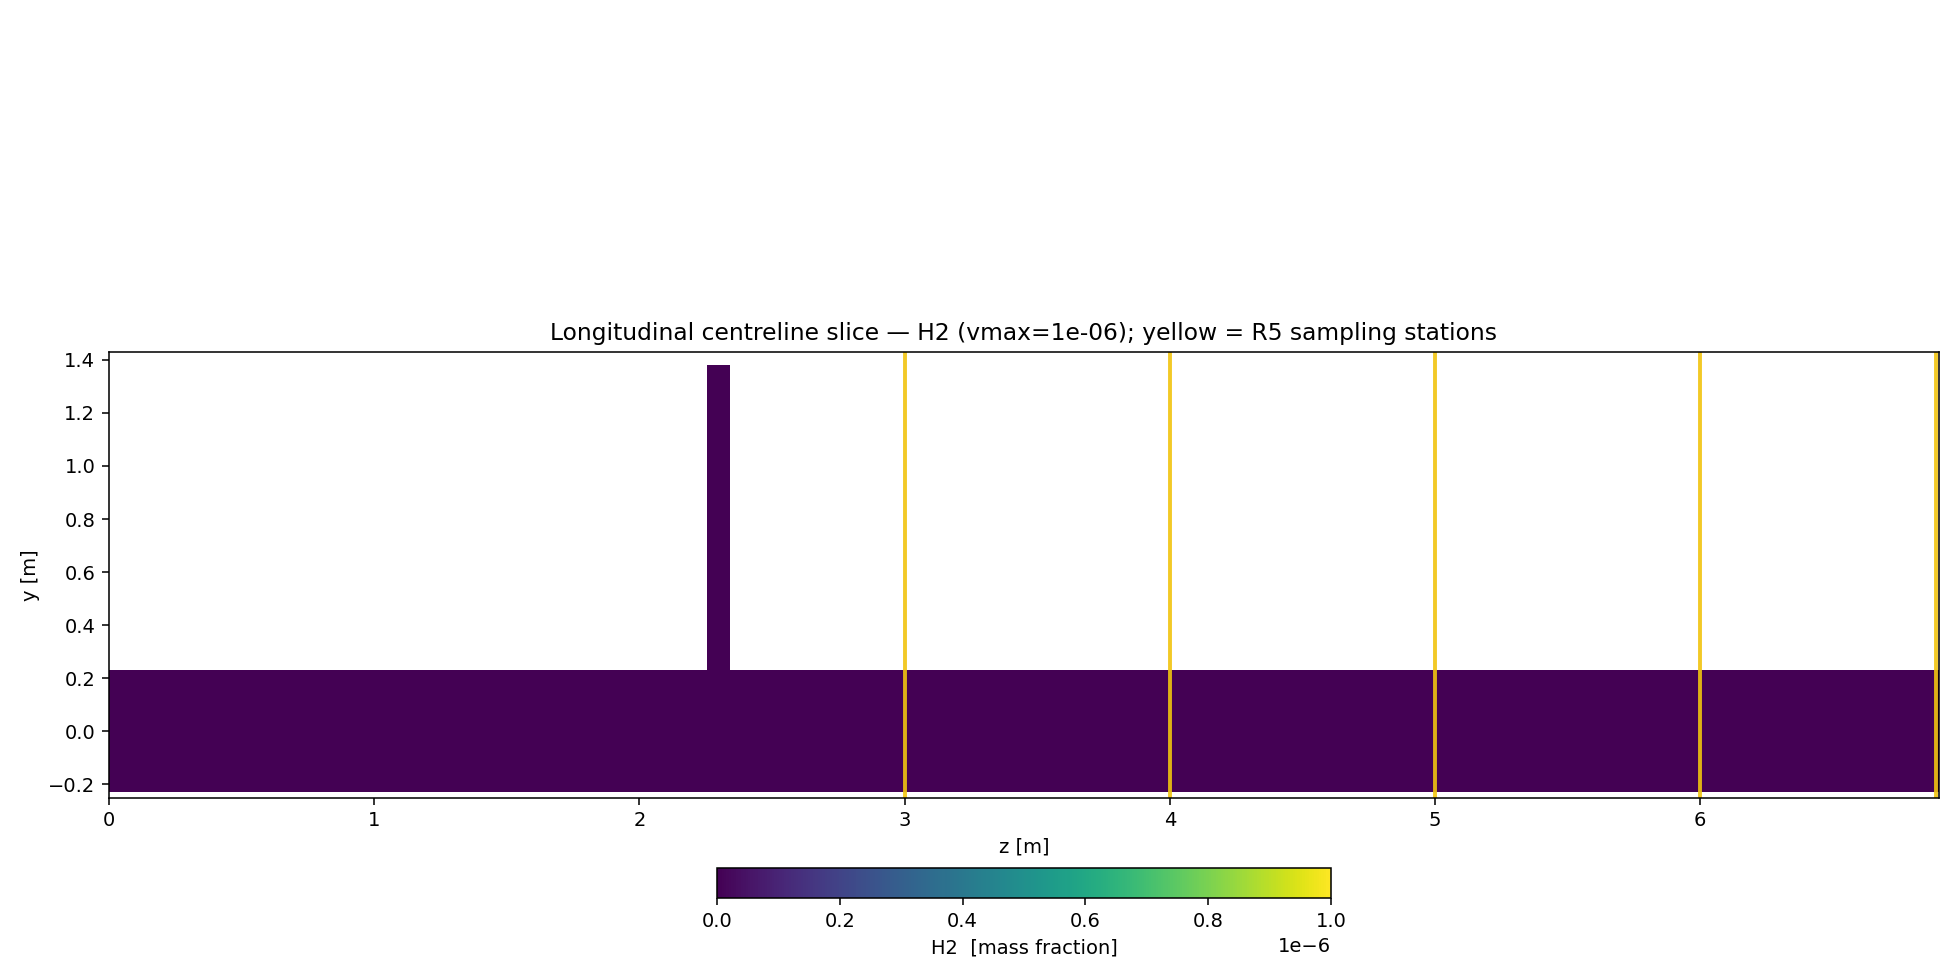
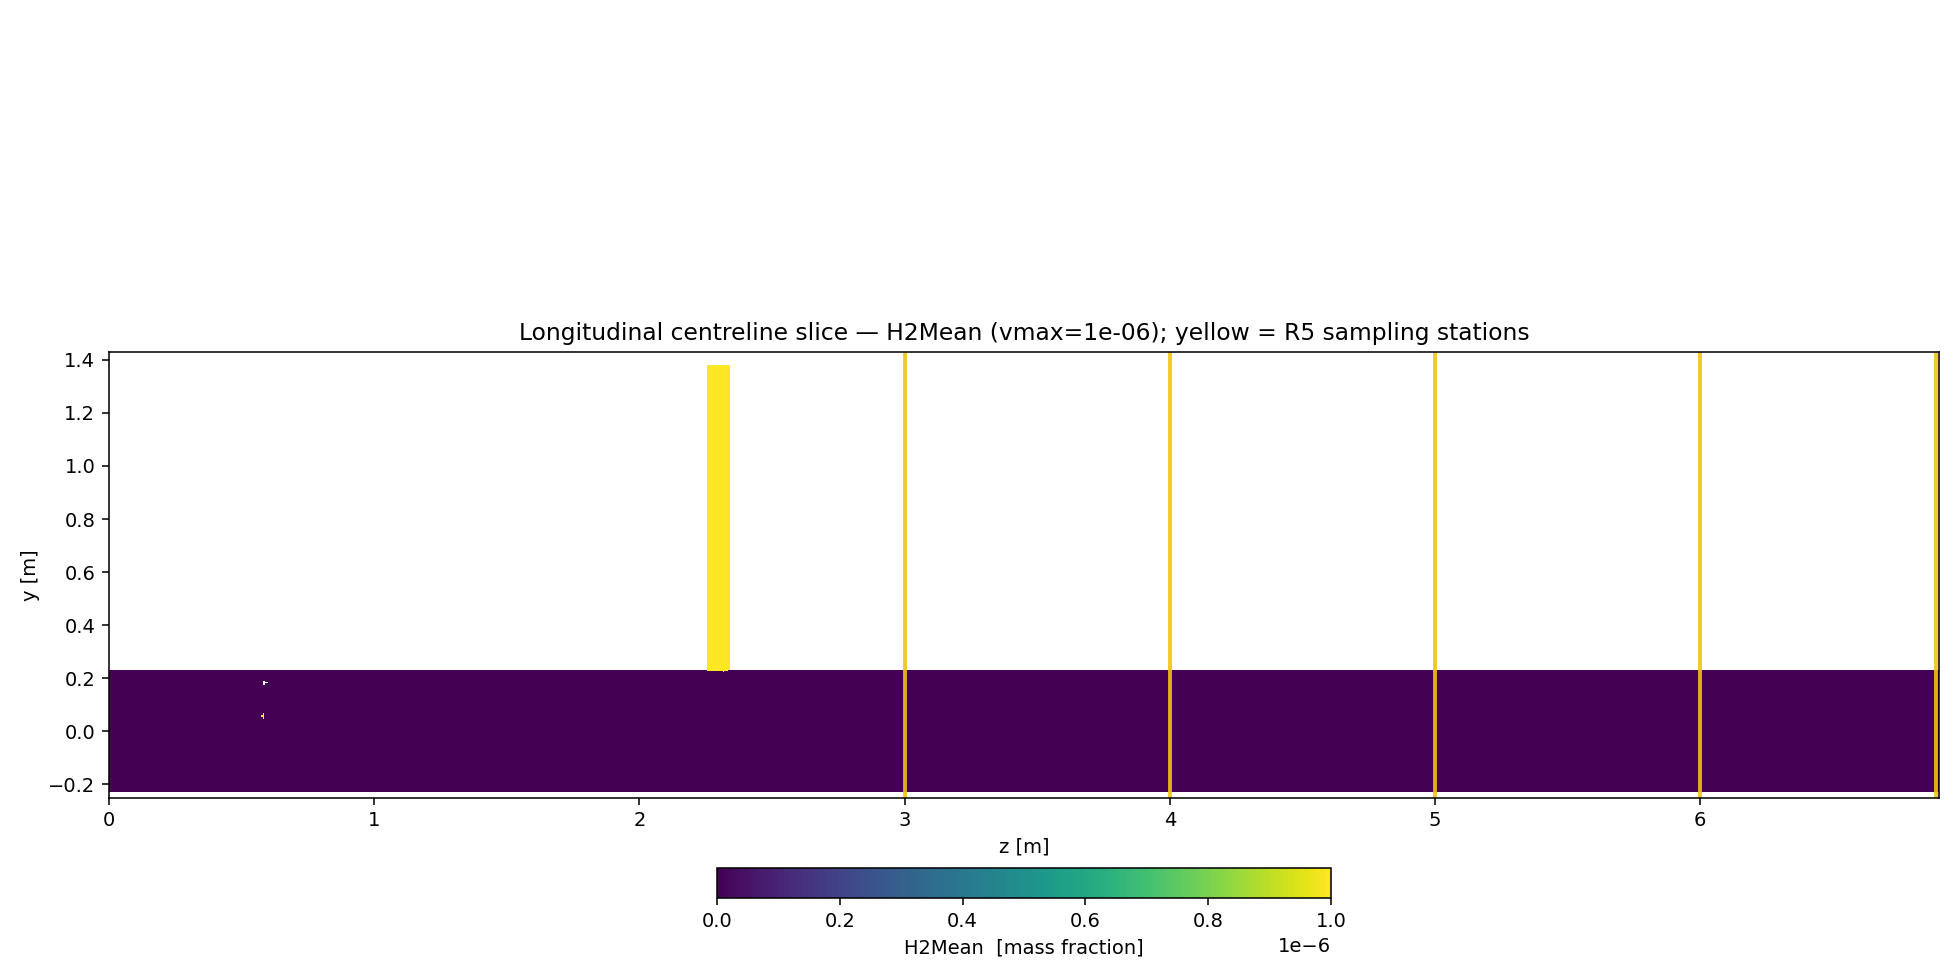
case_01 results_full: replace stale t=0 figures with buoyancy-sanity t=15 s
The previous case_01 figures were rendered from the initial condition
(t=0 s) because the original production run was aborted and its
latest-time data wasn't present when the figures were generated -- all
titles read "t = 0 s" and the fields are uniform (no gradients visible).

case_01 was subsequently repurposed as a Fr<<1 buoyancy sanity test
(see ../../../remote_snapshot/sanity_case_01_buoyancy/). This commit
overwrites the stale figures with the valid t=15 s sanity figures so
results_full/cases/case_01/ is consistent with the other DoE folders,
and adds ALL_METRICS.md + all_metrics.csv + README.md summarising the
change.

Made-with: Cursor

Changed region(s): [[0.2801, 0.3061, 0.7781, 0.7041], [0.4668, 0.949, 0.5913, 0.9796]]

diff --git a/doe/results_full/cases/case_01/ALL_METRICS.md b/doe/results_full/cases/case_01/ALL_METRICS.md
@@ -1,0 +1,67 @@
+# All metrics — `case_01`
+
+Snapshots used: **12, 15** (n = 2)
+
+> **Note on temporal averaging.** The simulation is a variable-density compressible transient; the three snapshots on disk (purgeWrite=3) are only coarse samples of the stationary window, and instantaneous pressure and mass-flux signals carry acoustic/pressure-pulse oscillations. Metrics below are reported under two conventions:
+> 1. **from snapshots** — full menu of weighted metrics, but subject to the 3-sample acoustic noise (use per-snapshot detail in Section 4 for the envelope);
+> 2. **from function-object time series** (`postProcessing/*.dat`) — sampled every timestep, noise-free, but limited to the function objects that were configured (here: area-weighted static-gauge `p_rgh` and area-weighted outlet `H2`).
+
+## 1. Mixing at outlet
+
+### 1a. CoV computed on the **time-averaged H₂ field** (preferred — removes acoustic noise)
+
+| Weighting | ⟨Y_H₂⟩ | σ(Y_H₂) | **CoV** | Danckwerts I_s |
+|---|---:|---:|---:|---:|
+| area | 0.00000 | 0.00000 | nan | nan |
+| mass | 0.00000 | 0.00000 | nan | nan |
+| vol  | 0.00000 | 0.00000 | nan | nan |
+
+### 1b. Mean of per-snapshot CoVs (for comparison; includes temporal variance)
+
+| Weighting | ⟨Y_H₂⟩ | σ(Y_H₂) | CoV | Danckwerts I_s |
+|---|---:|---:|---:|---:|
+| area | 0.00000 | 0.00000 | nan | nan |
+| mass | 0.00000 | 0.00000 | nan | nan |
+| vol  | 0.00000 | 0.00000 | nan | nan |
+
+### 1c. Reference from function-object time series (area-weighted, every timestep)
+
+- ⟨Y_H₂⟩_area, time-series: **0.00000** (n = 80 samples in [12.026, 14.974] s)
+
+## 2. Pressure drop
+
+### 2a. Clean reference from function-object time series (area-weighted, every timestep)
+
+- ΔP_area_ts on `p_rgh`: **0.647 kPa**  (⟨p_rgh⟩_inlet = 6900.6 kPa, ⟨p_rgh⟩_outlet = 6900.0 kPa, n = 80 samples)
+
+### 2b. From 3 snapshots (noisy due to acoustic pulses; see per-snapshot detail below)
+
+ΔP = ⟨φ⟩_main_inlet − ⟨φ⟩_outlet (kPa)
+
+| Pressure field | Area-weighted | Mass-flux-weighted | Vol-flux-weighted |
+|---|---:|---:|---:|
+| static `p` | 0.647 | 0.647 | 0.647 |
+| gauge `p_rgh` | 0.647 | 0.647 | 0.647 |
+| total `p + ½ρU²` | 0.320 | 0.194 | 0.194 |
+| gauge-total `p_rgh + ½ρU²` | 0.320 | 0.194 | 0.194 |
+
+## 3. Mass balance
+
+### 3a. Clean reference from outletFlux function object (every timestep)
+
+- ⟨sum(phi)⟩_outlet (ṁ_out, kg/s), time-averaged: **+1.6824**  (σ = 0.0001, n = 80 samples, t ∈ [12.026, 14.974] s)
+
+### 3b. From 3 snapshots (instantaneous, dominated by acoustic pulses)
+
+- ṁ main_inlet  : **-1.6824** kg/s
+- ṁ branch_inlet: **-0.0373** kg/s
+- ṁ outlet      : **+1.6815** kg/s
+- closure error : **-3.8239e-02 kg/s**  (-2.27 % of ṁ_outlet)
+
+## 4. Per-snapshot detail
+
+| time | CoV_area | CoV_mass | CoV_vol | ΔP_static_mass [kPa] | ΔP_total_mass [kPa] | balance [%] |
+|---|---:|---:|---:|---:|---:|---:|
+| 12.0 | nan | nan | nan | 0.647 | 0.194 | -1.88 |
+| 15.0 | nan | nan | nan | 0.647 | 0.194 | -2.67 |
+| **AVG** | **nan** | **nan** | **nan** | **0.647** | **0.194** | **-2.27** |

diff --git a/doe/results_full/cases/case_01/README.md b/doe/results_full/cases/case_01/README.md
@@ -1,0 +1,39 @@
+# case_01 — repurposed as buoyancy sanity test (Fr << 1)
+
+> The original case_01 production run (the 90° DoE operating point with
+> U_main = 10 m/s, VR = 5.84) was aborted and **replaced** by a low-velocity
+> (U = 0.5 m/s, Fr ≈ 0.06) sanity simulation whose purpose was to verify
+> that gravity + variable-density buoyancy coupling are active in
+> `rhoReactingBuoyantFoam`.  Stale t = 0 s figures from the aborted
+> production run have been overwritten with the t = 15 s sanity figures.
+
+## Why
+
+At the DoE operating point the branch-jet Froude number is ≈ 5 — inertia
+dominates buoyancy, so even a correctly-configured solver wouldn't show
+a rising plume signature. To verify buoyancy physics is active we need
+Fr << 1, which requires a low-velocity rerun.
+
+## Result
+
+At t = 15 s the H₂ plume is trapped inside the branch pipe, rising
+against the 0.5 m/s downward injection because buoyancy is ≈ 3.5× the
+injection inertia. This is the decisive confirmation that gravity and
+the `p_rgh` hydrostatic formulation are working.
+
+Clean time-series references (80 samples in the extension window):
+
+| Metric                           | Value            |
+|----------------------------------|-----------------:|
+| ΔP_area on `p_rgh`               | **0.647 kPa**    |
+| ⟨ṁ⟩_outlet                       | **+1.6824 kg/s** (σ = 1e-4) |
+| ⟨Y_H₂⟩_outlet                    | 0 (plume never leaves branch — by design) |
+
+Full write-up + figure key: `../../../remote_snapshot/sanity_case_01_buoyancy/SANITY_REPORT.md`
+
+## Files
+
+- `figures/*` — 10 PNGs at t = 15 s (KDTree resampler, no gap artefacts)
+- `ALL_METRICS.md`, `all_metrics.csv` — snapshot and time-series metrics
+- `Allrun`, `case.env`, `case_info.json`, `system/`, `0.orig/`, etc —
+  configuration used for the sanity rerun
